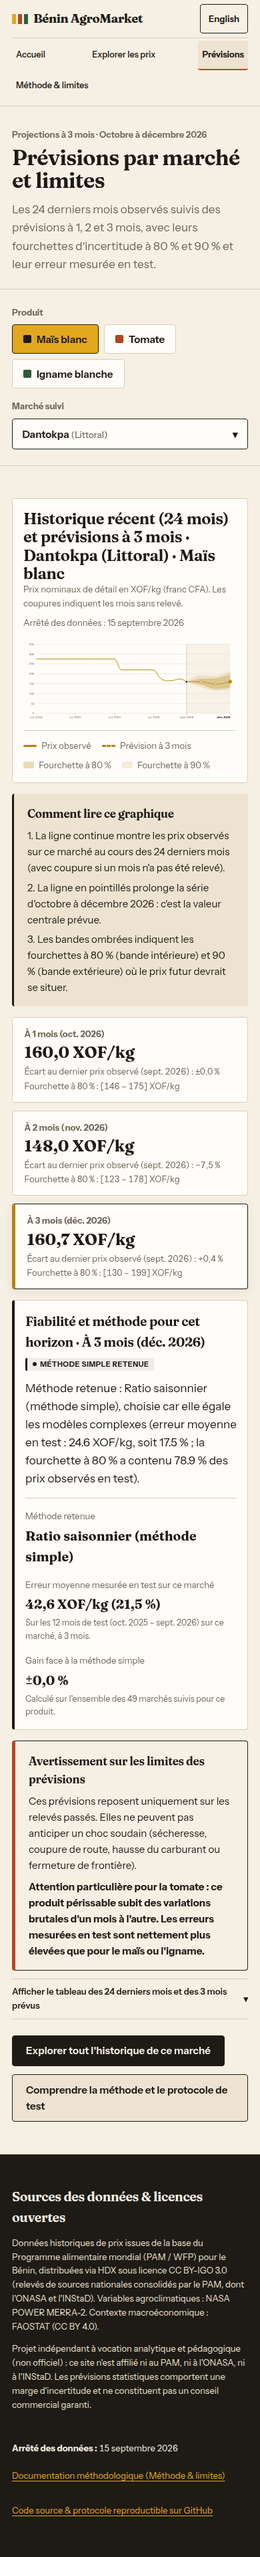
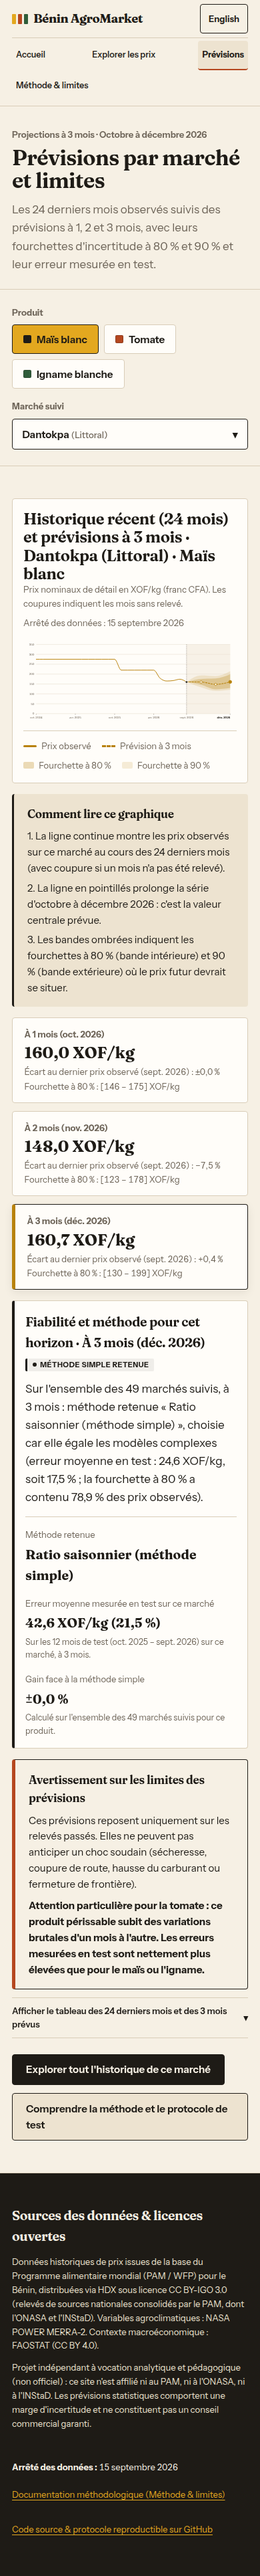
docs: update step 3.3 screenshots and status after correction pass

diff --git a/docs/STATUS.md b/docs/STATUS.md
@@ -207,4 +207,11 @@ Per [`docs/PHASE3_BRIEF.md`](file:///home/brian/projets-ds/benin-agromarket/docs
 - **Build & Budgets:** `npm run build` in `web/` built all 6 static routes cleanly. Regenerated [`docs/tables/web_budget.md`](file:///home/brian/projets-ds/benin-agromarket/docs/tables/web_budget.md) (Home JS `45.10 KiB` gzip, all site JS `69.19 KiB` gzip <= `120.00 KiB`; Home CSS `7.35 KiB` gzip <= `30.00 KiB`; Fonts `65.15 KiB` <= `70.00 KiB`).
 - **Validation & Contrast:** `.venv/bin/python -m src.evaluate.validate_export` passed all 7 contract checks; `.venv/bin/python -m src.evaluate.contrast_check` regenerated [`docs/tables/contrast_check.md`](file:///home/brian/projets-ds/benin-agromarket/docs/tables/contrast_check.md).
 - **Playwright Screenshots (`1440×900` & `390×844`, `Errors: NONE`):** Saved and inspected in [`docs/screenshots/step-3.3/`](file:///home/brian/projets-ds/benin-agromarket/docs/screenshots/step-3.3/) (`desktop-home-fr.png`, `mobile-home-fr.png`, `desktop-explorer-fr.png`, `desktop-explorer-en.png`, `mobile-explorer-fr.png`, `desktop-forecast-fr.png`, `desktop-forecast-en.png`, `mobile-forecast-fr.png`).
+- **Correction Pass (`fc9c19d`, `1db2608`):**
+  1. Stated explicit product-wide scope (`"Sur l'ensemble des {n} marchés suivis, à {h} mois : ..."`) in [`web/scripts/prepare-data.mjs`](file:///home/brian/projets-ds/benin-agromarket/web/scripts/prepare-data.mjs) reliability notes.
+  2. Enforced French decimal commas (`fmtFr`) across all French `note_fr` strings while keeping English decimal points.
+  3. Unified URL query parameters (`?product=`, `&market=`, `&range=`, `&median=`, `&horizon=`) across Home, Explorer, and Forecast (FR & EN), verified by [`web/scripts/test-url-params.mjs`](file:///home/brian/projets-ds/benin-agromarket/web/scripts/test-url-params.mjs) at build time and end-to-end Explorer ↔ Forecast navigation in Playwright.
+  4. Kept the 3 product chips on a single row from `1280px` on Explorer and Forecast in [`web/src/styles/global.css`](file:///home/brian/projets-ds/benin-agromarket/web/src/styles/global.css).
+  5. Renamed `"pts"` in the seasonality summary to `"points d'indice"` / `"index points"` in [`web/src/i18n/fr.json`](file:///home/brian/projets-ds/benin-agromarket/web/src/i18n/fr.json), [`web/src/i18n/en.json`](file:///home/brian/projets-ds/benin-agromarket/web/src/i18n/en.json), and [`web/src/components/HomePage.astro`](file:///home/brian/projets-ds/benin-agromarket/web/src/components/HomePage.astro).
+  6. Verified `/previsions?produit=maize_white&marche=Dantokpa&horizon=2` (and EN `/en/forecast?product=maize_white&market=Dantokpa&horizon=2`) in Playwright: badge and note both show `"Pas meilleur que la méthode simple en test"` / `"No better than the simple method in testing"`.
 - **Status:** **STOPPED at End of Step 3.3** — awaiting owner validation before starting **Step 3.4 (Method & limits page, 404, accessibility/performance pass, polish)**.
